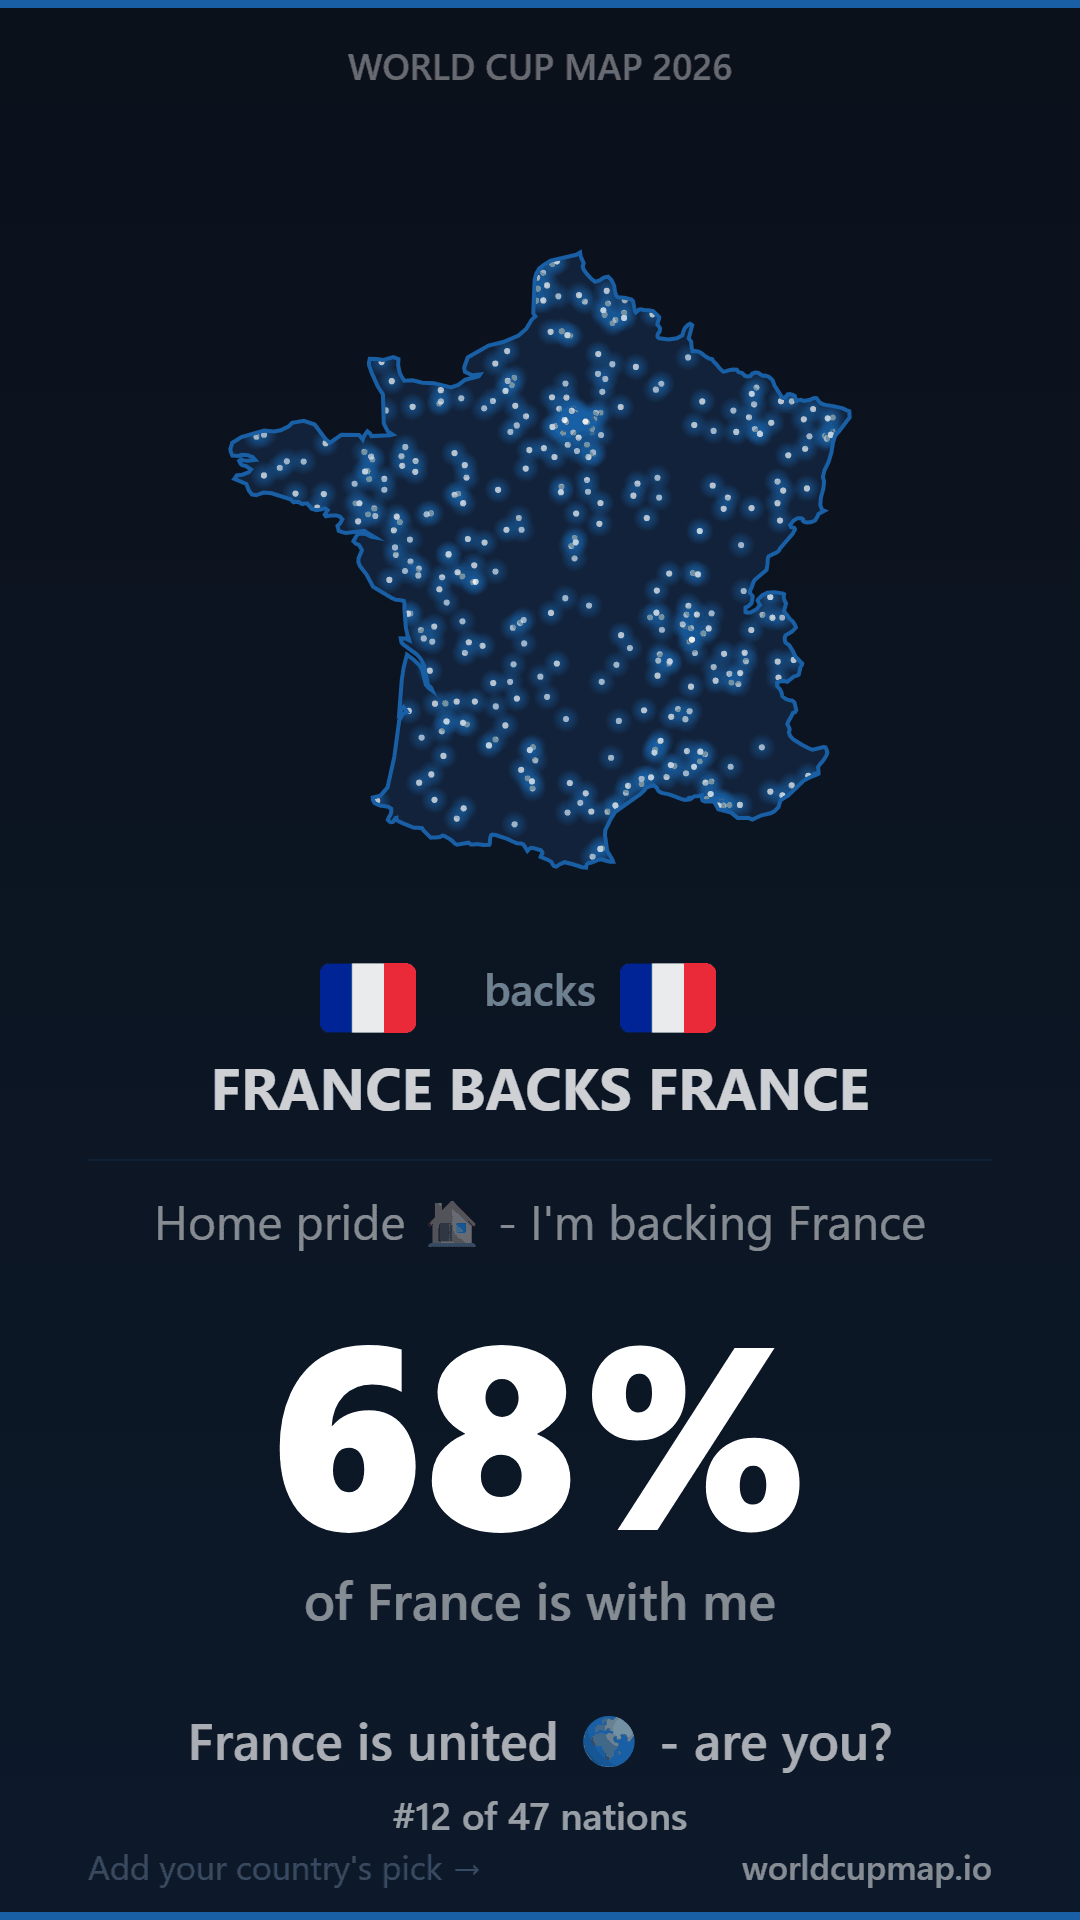
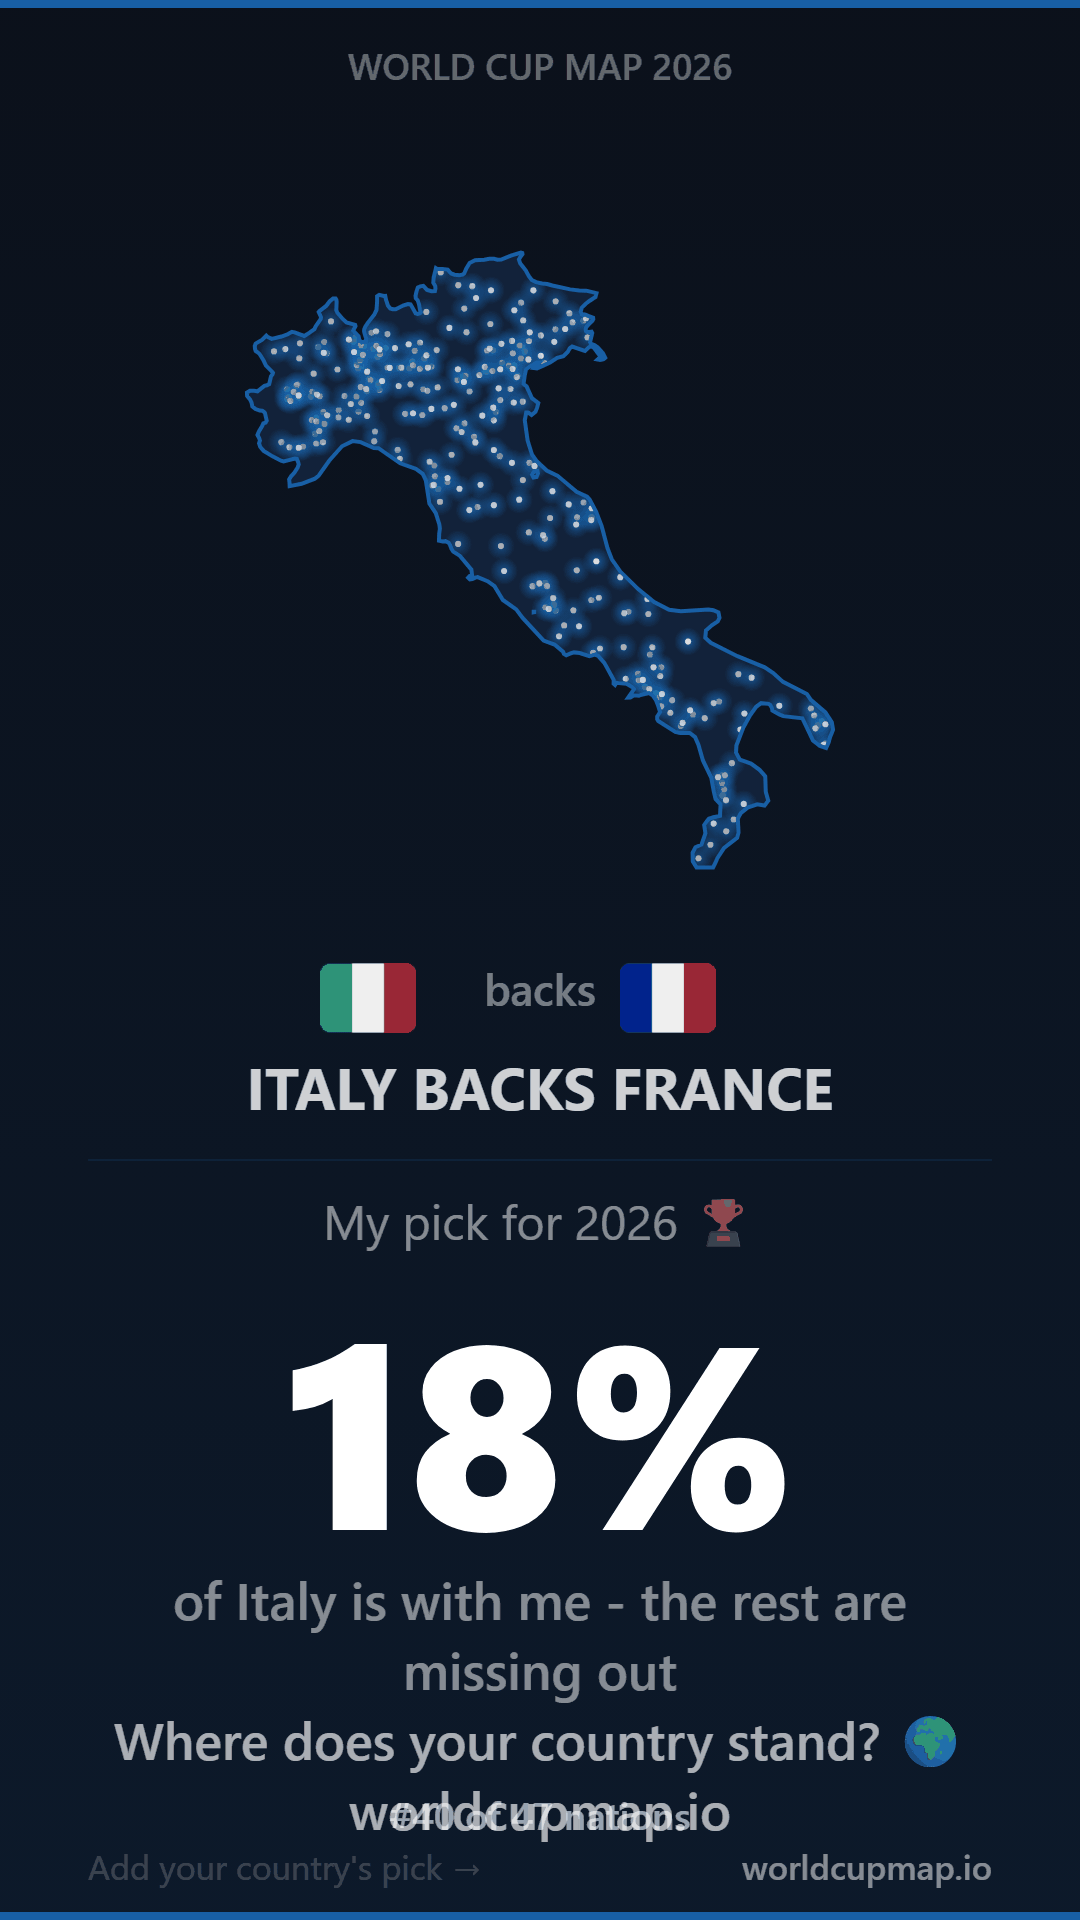
worldcupmap: a contrarian share image

diff --git a/log/prompts.md b/log/prompts.md
@@ -2374,3 +2374,29 @@ Two changes. Stop and tell me if anything fails.
 ```
 Changed: London intro wording, and a France share card on the worldcupmap build page after the globe.
 Files: content/home.md, content/builds/worldcupmap.md, public/worldcupmap-share.png, components/build-article.tsx, lib/content.ts, log/prompts.md
+
+### 2026-10-01 16:13
+Prompt:
+```
+Briefly inform the user about the task result and perform any follow-up actions (if needed). If there's no follow-ups needed, don't explicitly say that.
+```
+Changed: none - leftover check shells from the London and worldcupmap share image push finishing after the work shipped
+Files: none
+
+### 2026-10-01 16:26
+Prompt:
+```
+Two changes to the worldcupmap page. Stop and tell me if anything fails.
+
+1. A contrarian share image instead of France backs France:
+   - In the real vote data, find countries whose most-picked winner was a different team, ideally a well-known rival (the kind of result that would wind people up in a group chat). Only use real results from the data.
+   - Render the three strongest with the tool's own share-image code, the same way as before, checking nothing personal is on them. Use the best one on the page (replacing public/worldcupmap-share.png) and save the other two as public/worldcupmap-share-alt-1.png and -alt-2.png, not shown on the page.
+   - Update the image's alt text to match.
+   - Tell me what all three say and their pick counts, and why you chose the one you did.
+
+2. In "What happened", remove the line "Most of the growth came from share images people posted in their group chats." (the caption under the image says it now).
+
+3. Run all the tests, a clean production build, the code check and gitleaks git -v. Commit with "worldcupmap: a contrarian share image" and push to main.
+```
+Changed: Swapped in Italy backs France as the share image, kept two alt cards, and trimmed the What happened line.
+Files: content/builds/worldcupmap.md, public/worldcupmap-share.png, public/worldcupmap-share-alt-1.png, public/worldcupmap-share-alt-2.png, log/prompts.md

diff --git a/content/builds/worldcupmap.md b/content/builds/worldcupmap.md
@@ -9,7 +9,7 @@ image:
 globeCaption: Each country is coloured by the team its people voted for most to win the World Cup. Each dot is one vote.
 shareShot:
   src: /worldcupmap-share.png
-  alt: A tall dark share card from worldcupmap showing the outline of France filled with glowing vote dots, French flags, the line France backs France, and a big 68 percent
+  alt: A tall dark share card from worldcupmap showing the outline of Italy filled with glowing vote dots, Italian and French flags, the line Italy backs France, and a big 18 percent
   caption: Most of the growth came from people sharing these in their group chats.
 links:
   - label: Visit worldcupmap.io
@@ -24,4 +24,4 @@ I built it on my own in about a week for the 2026 World Cup. You didn't need an 
 
 ## What happened
 
-4,262 people used it across the tournament, with no paid promotion. Most of the growth came from share images people posted in their group chats.
+4,262 people used it across the tournament, with no paid promotion.
